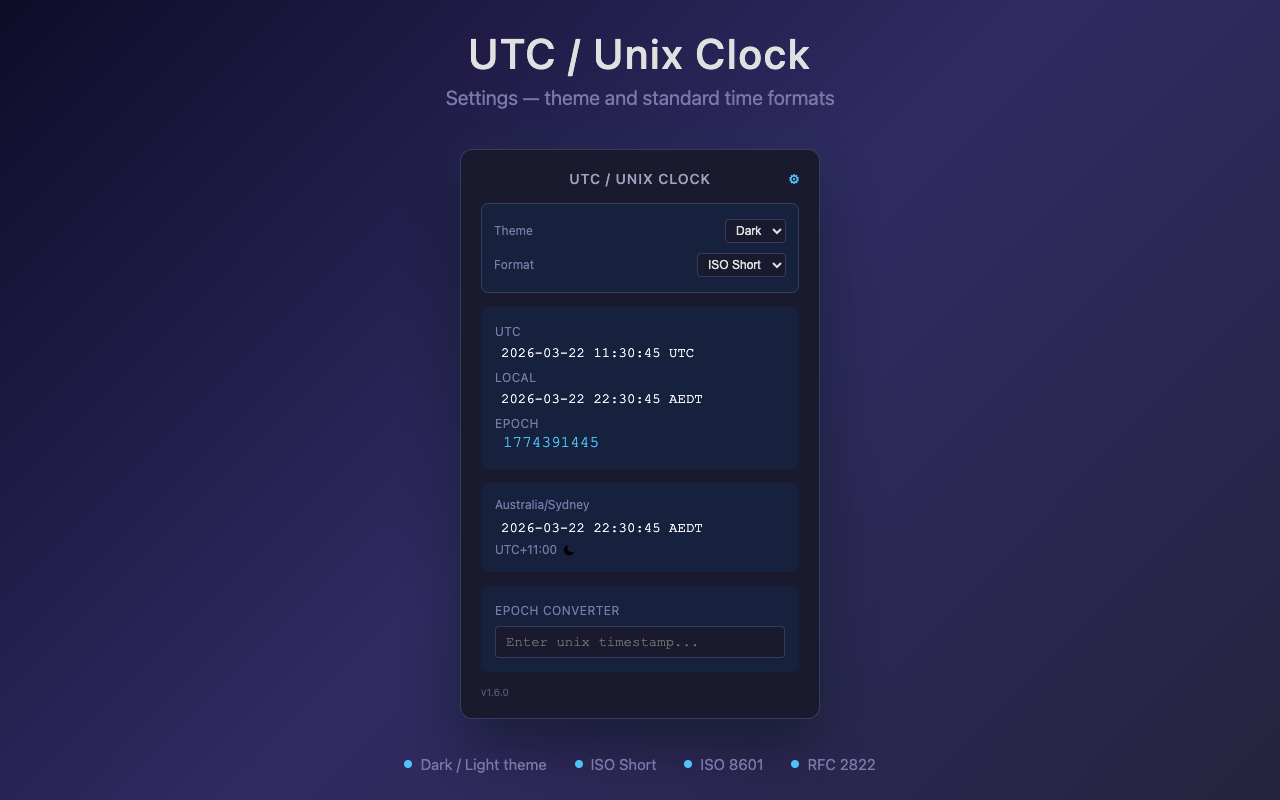
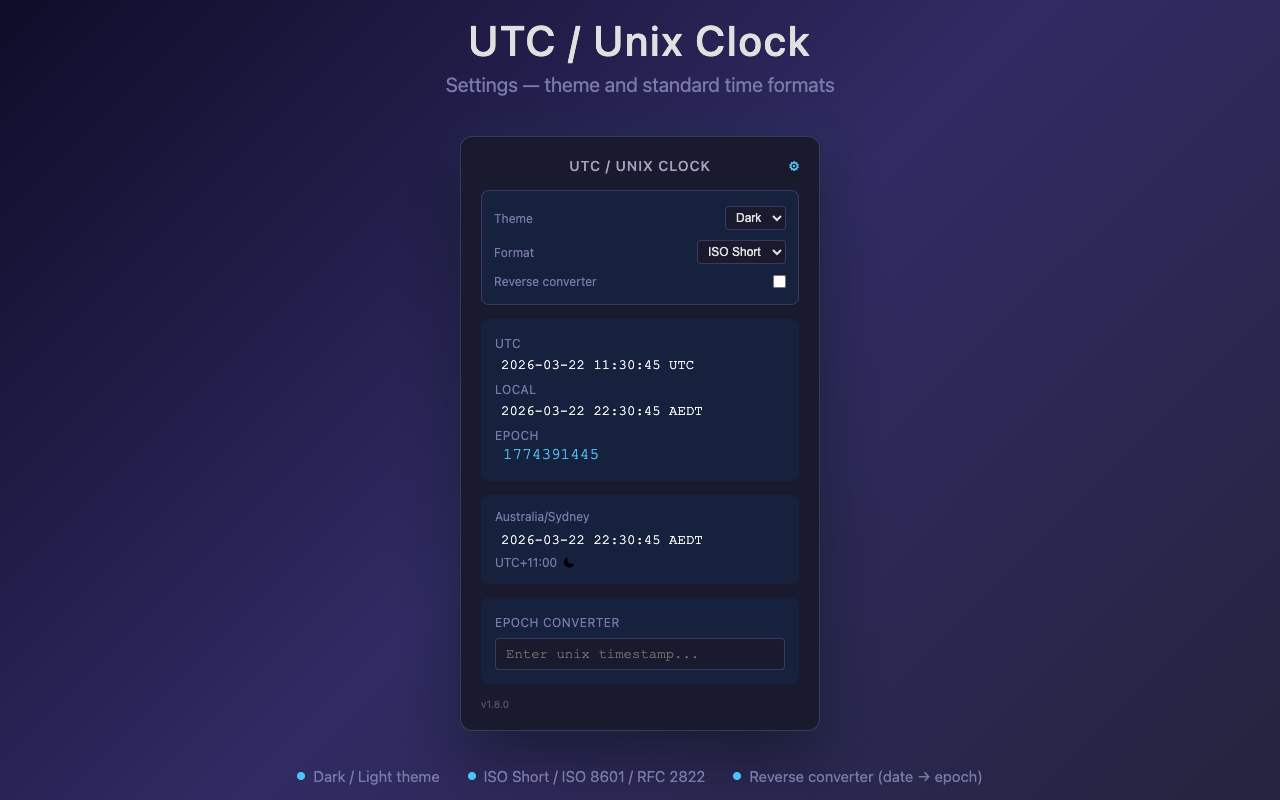
feat: add optional reverse converter (date string → epoch), bump to v1.8.0
- Add "Reverse converter" toggle in settings (off by default)
- When enabled, converter accepts ISO 8601, ISO Short, and RFC 2822 date strings
- Shows epoch result for reverse conversions with click-to-copy
- Add parseDateTime with tests for all supported formats
- Update screenshots, README, and release notes

diff --git a/src/popup.ts b/src/popup.ts
@@ -6,6 +6,7 @@ import {
   getTimezoneOffset,
   formatRelativeTime,
   isDaytime,
+  parseDateTime,
   TimeFormat,
 } from './time';
 import {
@@ -15,12 +16,15 @@ import {
   setTheme,
   getFormat,
   setFormat,
+  getReverseConverter,
+  setReverseConverter,
   TIMEZONE_OPTIONS,
   Theme,
 } from './settings';
 
 let currentTimezone = 'Australia/Sydney';
 let currentFormat: TimeFormat = 'iso-short';
+let reverseEnabled = false;
 
 function updateDisplay(): void {
   const now = new Date();
@@ -66,12 +70,20 @@ async function handleEpochClick(): Promise<void> {
   await copyAndFeedback(epochEl, feedbackEl);
 }
 
+function tryParseEpoch(raw: string): Date | null {
+  const parsed = Number(raw);
+  if (!Number.isFinite(parsed) || parsed < 0 || parsed > 99999999999) return null;
+  return new Date(parsed * 1000);
+}
+
 function handleEpochInput(event: Event): void {
   const input = event.target as HTMLInputElement;
   const resultsEl = document.getElementById('convert-results');
   const utcEl = document.getElementById('convert-utc');
   const localEl = document.getElementById('convert-local');
   const relativeEl = document.getElementById('convert-relative');
+  const epochRowEl = document.getElementById('convert-epoch-row');
+  const epochEl = document.getElementById('convert-epoch');
 
   if (!resultsEl || !utcEl || !localEl) return;
 
@@ -81,13 +93,31 @@ function handleEpochInput(event: Event): void {
     return;
   }
 
-  const parsed = Number(raw);
-  if (!Number.isFinite(parsed) || parsed < 0 || parsed > 99999999999) {
+  // Try epoch first (all-digit input)
+  let date = tryParseEpoch(raw);
+  let isReverse = false;
+
+  // If not a valid epoch and reverse is enabled, try parsing as date string
+  if (!date && reverseEnabled) {
+    date = parseDateTime(raw);
+    isReverse = date !== null;
+  }
+
+  if (!date) {
     resultsEl.style.display = 'none';
     return;
   }
 
-  const date = new Date(parsed * 1000);
+  // Show epoch row only for reverse conversion
+  if (epochRowEl && epochEl) {
+    if (isReverse) {
+      epochEl.textContent = formatUnixEpoch(date);
+      epochRowEl.style.display = 'block';
+    } else {
+      epochRowEl.style.display = 'none';
+    }
+  }
+
   utcEl.textContent = formatUtcTime(date, currentFormat);
   localEl.textContent = formatLocalTime(date, currentFormat);
   if (relativeEl) relativeEl.textContent = formatRelativeTime(date);
@@ -111,6 +141,7 @@ function init(): void {
   // Load settings
   const theme = getTheme();
   currentFormat = getFormat();
+  reverseEnabled = getReverseConverter();
   applyTheme(theme);
 
   // Timezone select
@@ -168,6 +199,27 @@ function init(): void {
       currentFormat = formatSelect.value as TimeFormat;
       setFormat(currentFormat);
       updateDisplay();
+    });
+  }
+
+  // Reverse converter toggle
+  const reverseToggle = document.getElementById('reverse-toggle') as HTMLInputElement | null;
+  const epochInput2 = document.getElementById('epoch-input') as HTMLInputElement | null;
+  if (reverseToggle) {
+    reverseToggle.checked = reverseEnabled;
+    if (epochInput2) {
+      epochInput2.placeholder = reverseEnabled
+        ? 'Enter epoch or date string...'
+        : 'Enter unix timestamp...';
+    }
+    reverseToggle.addEventListener('change', () => {
+      reverseEnabled = reverseToggle.checked;
+      setReverseConverter(reverseEnabled);
+      if (epochInput2) {
+        epochInput2.placeholder = reverseEnabled
+          ? 'Enter epoch or date string...'
+          : 'Enter unix timestamp...';
+      }
     });
   }
 

diff --git a/src/time.test.ts b/src/time.test.ts
@@ -6,6 +6,7 @@ import {
   getTimezoneOffset,
   formatRelativeTime,
   isDaytime,
+  parseDateTime,
 } from './time';
 
 describe('formatUtcTime', () => {
@@ -112,6 +113,46 @@ describe('formatRelativeTime', () => {
   it('formats years ago', () => {
     const date = new Date('2024-03-22T12:00:00.000Z');
     expect(formatRelativeTime(date, now)).toBe('2y 0d ago');
+  });
+});
+
+describe('parseDateTime', () => {
+  it('parses ISO 8601', () => {
+    const date = parseDateTime('2026-03-22T11:30:45Z');
+    expect(date).not.toBeNull();
+    expect(date!.toISOString()).toBe('2026-03-22T11:30:45.000Z');
+  });
+
+  it('parses ISO 8601 with offset', () => {
+    const date = parseDateTime('2026-03-22T22:30:45+11:00');
+    expect(date).not.toBeNull();
+    expect(date!.toISOString()).toBe('2026-03-22T11:30:45.000Z');
+  });
+
+  it('parses ISO short', () => {
+    const date = parseDateTime('2026-03-22 11:30:45');
+    expect(date).not.toBeNull();
+    expect(date!.toISOString()).toBe('2026-03-22T11:30:45.000Z');
+  });
+
+  it('parses ISO short with trailing tz abbreviation', () => {
+    const date = parseDateTime('2026-03-22 11:30:45 UTC');
+    expect(date).not.toBeNull();
+    expect(date!.toISOString()).toBe('2026-03-22T11:30:45.000Z');
+  });
+
+  it('parses RFC 2822', () => {
+    const date = parseDateTime('Sun, 22 Mar 2026 11:30:45 GMT');
+    expect(date).not.toBeNull();
+    expect(date!.toISOString()).toBe('2026-03-22T11:30:45.000Z');
+  });
+
+  it('returns null for empty input', () => {
+    expect(parseDateTime('')).toBeNull();
+  });
+
+  it('returns null for garbage input', () => {
+    expect(parseDateTime('not a date')).toBeNull();
   });
 });
 

diff --git a/src/popup.html b/src/popup.html
@@ -27,6 +27,10 @@
           <option value="rfc2822">RFC 2822</option>
         </select>
       </div>
+      <div class="setting-row">
+        <span class="setting-label">Reverse converter</span>
+        <input type="checkbox" id="reverse-toggle" />
+      </div>
     </div>
 
     <section class="time-block">
@@ -66,6 +70,13 @@
       <input id="epoch-input" type="text" placeholder="Enter unix timestamp..." />
       <div id="convert-results" class="convert-results" style="display:none">
         <div id="convert-relative" class="relative-time"></div>
+        <div id="convert-epoch-row" style="display:none">
+          <label>EPOCH</label>
+          <div class="copyable-row">
+            <div id="convert-epoch" class="time-value" title="Click to copy"></div>
+            <span class="copy-feedback">Copied!</span>
+          </div>
+        </div>
         <label>UTC</label>
         <div class="copyable-row">
           <div id="convert-utc" class="time-value" title="Click to copy"></div>

diff --git a/store/settings-ui.html b/store/settings-ui.html
@@ -200,6 +200,10 @@
           <option>RFC 2822</option>
         </select>
       </div>
+      <div class="setting-row">
+        <span class="setting-label">Reverse converter</span>
+        <input type="checkbox" />
+      </div>
     </div>
 
     <div class="time-block">
@@ -227,14 +231,13 @@
       <input class="converter-input" placeholder="Enter unix timestamp..." readonly />
     </div>
 
-    <div class="version">v1.6.0</div>
+    <div class="version">v1.8.0</div>
   </div>
 
   <div class="features">
     <div class="feature"><span class="dot"></span> Dark / Light theme</div>
-    <div class="feature"><span class="dot"></span> ISO Short</div>
-    <div class="feature"><span class="dot"></span> ISO 8601</div>
-    <div class="feature"><span class="dot"></span> RFC 2822</div>
+    <div class="feature"><span class="dot"></span> ISO Short / ISO 8601 / RFC 2822</div>
+    <div class="feature"><span class="dot"></span> Reverse converter (date → epoch)</div>
   </div>
 </body>
 </html>

diff --git a/src/time.ts b/src/time.ts
@@ -166,6 +166,27 @@ export function isDaytime(date: Date, timezone: string): boolean {
   return hour >= 6 && hour < 18;
 }
 
+export function parseDateTime(input: string): Date | null {
+  const trimmed = input.trim();
+  if (!trimmed) return null;
+
+  // ISO short: "2026-03-22 11:30:45" or "2026-03-22 11:30:45 UTC/AEDT/etc"
+  // Must check before native Date parse, which treats "YYYY-MM-DD HH:MM:SS" as local time
+  const isoShortMatch = trimmed.match(
+    /^(\d{4}-\d{2}-\d{2})\s+(\d{2}:\d{2}:\d{2})(?:\s+[A-Za-z/]+)?$/,
+  );
+  if (isoShortMatch) {
+    const date = new Date(`${isoShortMatch[1]}T${isoShortMatch[2]}Z`);
+    if (!isNaN(date.getTime())) return date;
+  }
+
+  // Native Date parse (handles ISO 8601, RFC 2822)
+  const direct = new Date(trimmed);
+  if (!isNaN(direct.getTime())) return direct;
+
+  return null;
+}
+
 export function getTimezoneOffset(date: Date, timezone: string): string {
   const formatter = new Intl.DateTimeFormat('en-US', {
     timeZone: timezone,

diff --git a/src/settings.test.ts b/src/settings.test.ts
@@ -5,6 +5,8 @@ import {
   setTheme,
   getFormat,
   setFormat,
+  getReverseConverter,
+  setReverseConverter,
   TIMEZONE_OPTIONS,
   DEFAULT_TIMEZONE,
 } from './settings';
@@ -95,5 +97,23 @@ describe('setFormat', () => {
   it('stores format', () => {
     setFormat('rfc2822');
     expect(mockStorage['format']).toBe('rfc2822');
+  });
+});
+
+describe('getReverseConverter', () => {
+  it('returns false when nothing stored', () => {
+    expect(getReverseConverter()).toBe(false);
+  });
+
+  it('returns true when stored as "true"', () => {
+    mockStorage['reverseConverter'] = 'true';
+    expect(getReverseConverter()).toBe(true);
+  });
+});
+
+describe('setReverseConverter', () => {
+  it('stores value', () => {
+    setReverseConverter(true);
+    expect(mockStorage['reverseConverter']).toBe('true');
   });
 });

diff --git a/src/settings.ts b/src/settings.ts
@@ -47,3 +47,11 @@ export function getFormat(): TimeFormat {
 export function setFormat(format: TimeFormat): void {
   localStorage.setItem('format', format);
 }
+
+export function getReverseConverter(): boolean {
+  return localStorage.getItem('reverseConverter') === 'true';
+}
+
+export function setReverseConverter(value: boolean): void {
+  localStorage.setItem('reverseConverter', String(value));
+}

diff --git a/src/popup.css b/src/popup.css
@@ -95,6 +95,11 @@ h1 {
   color: var(--text-muted);
 }
 
+.setting-row select,
+.setting-row input[type="checkbox"] {
+  cursor: pointer;
+}
+
 .setting-row select {
   background: var(--input-bg);
   color: var(--text);
@@ -102,7 +107,6 @@ h1 {
   border-radius: 4px;
   padding: 3px 6px;
   font-size: 12px;
-  cursor: pointer;
 }
 
 .time-block {

diff --git a/store/main-ui.html b/store/main-ui.html
@@ -189,7 +189,7 @@
       </div>
     </div>
 
-    <div class="version">v1.6.0</div>
+    <div class="version">v1.8.0</div>
   </div>
 
   <div class="features">

diff --git a/README.md b/README.md
@@ -23,6 +23,7 @@ A minimal Chrome extension that shows the current UTC time and Unix epoch at a g
 - **Settings panel** — click the gear icon to configure:
   - **Dark / Light theme** — switch between dark and light mode
   - **Time format** — ISO Short (`2026-03-22 11:30:45 UTC`), ISO 8601 (`2026-03-22T11:30:45Z`), or RFC 2822 (`Sun, 22 Mar 2026 11:30:45 GMT`)
+  - **Reverse converter** — enable to also accept date strings in the converter (date → epoch). Off by default
   - All preferences are saved and persist across sessions
 
 ## Install
